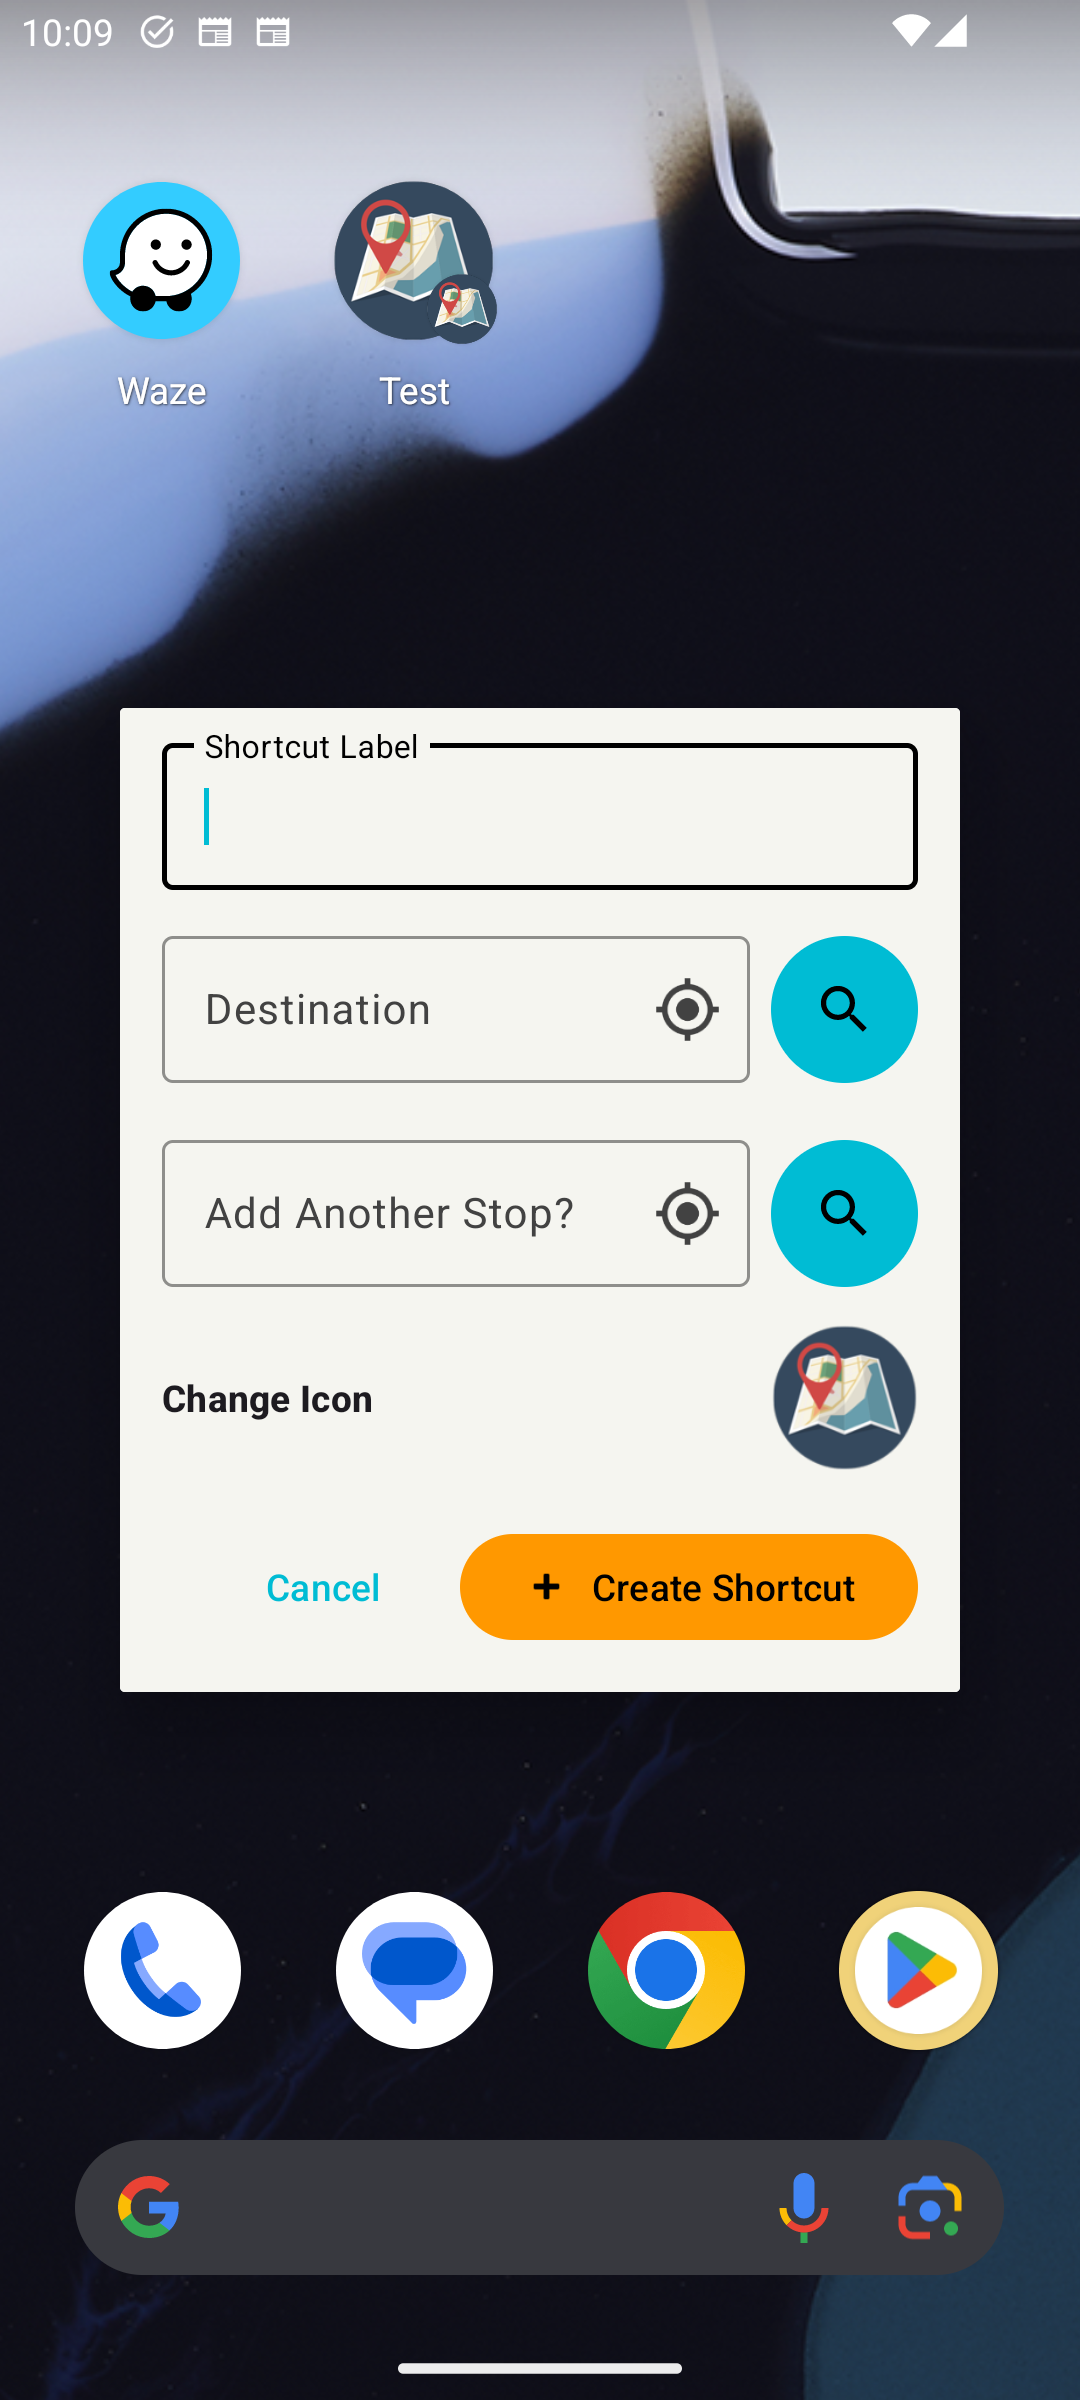
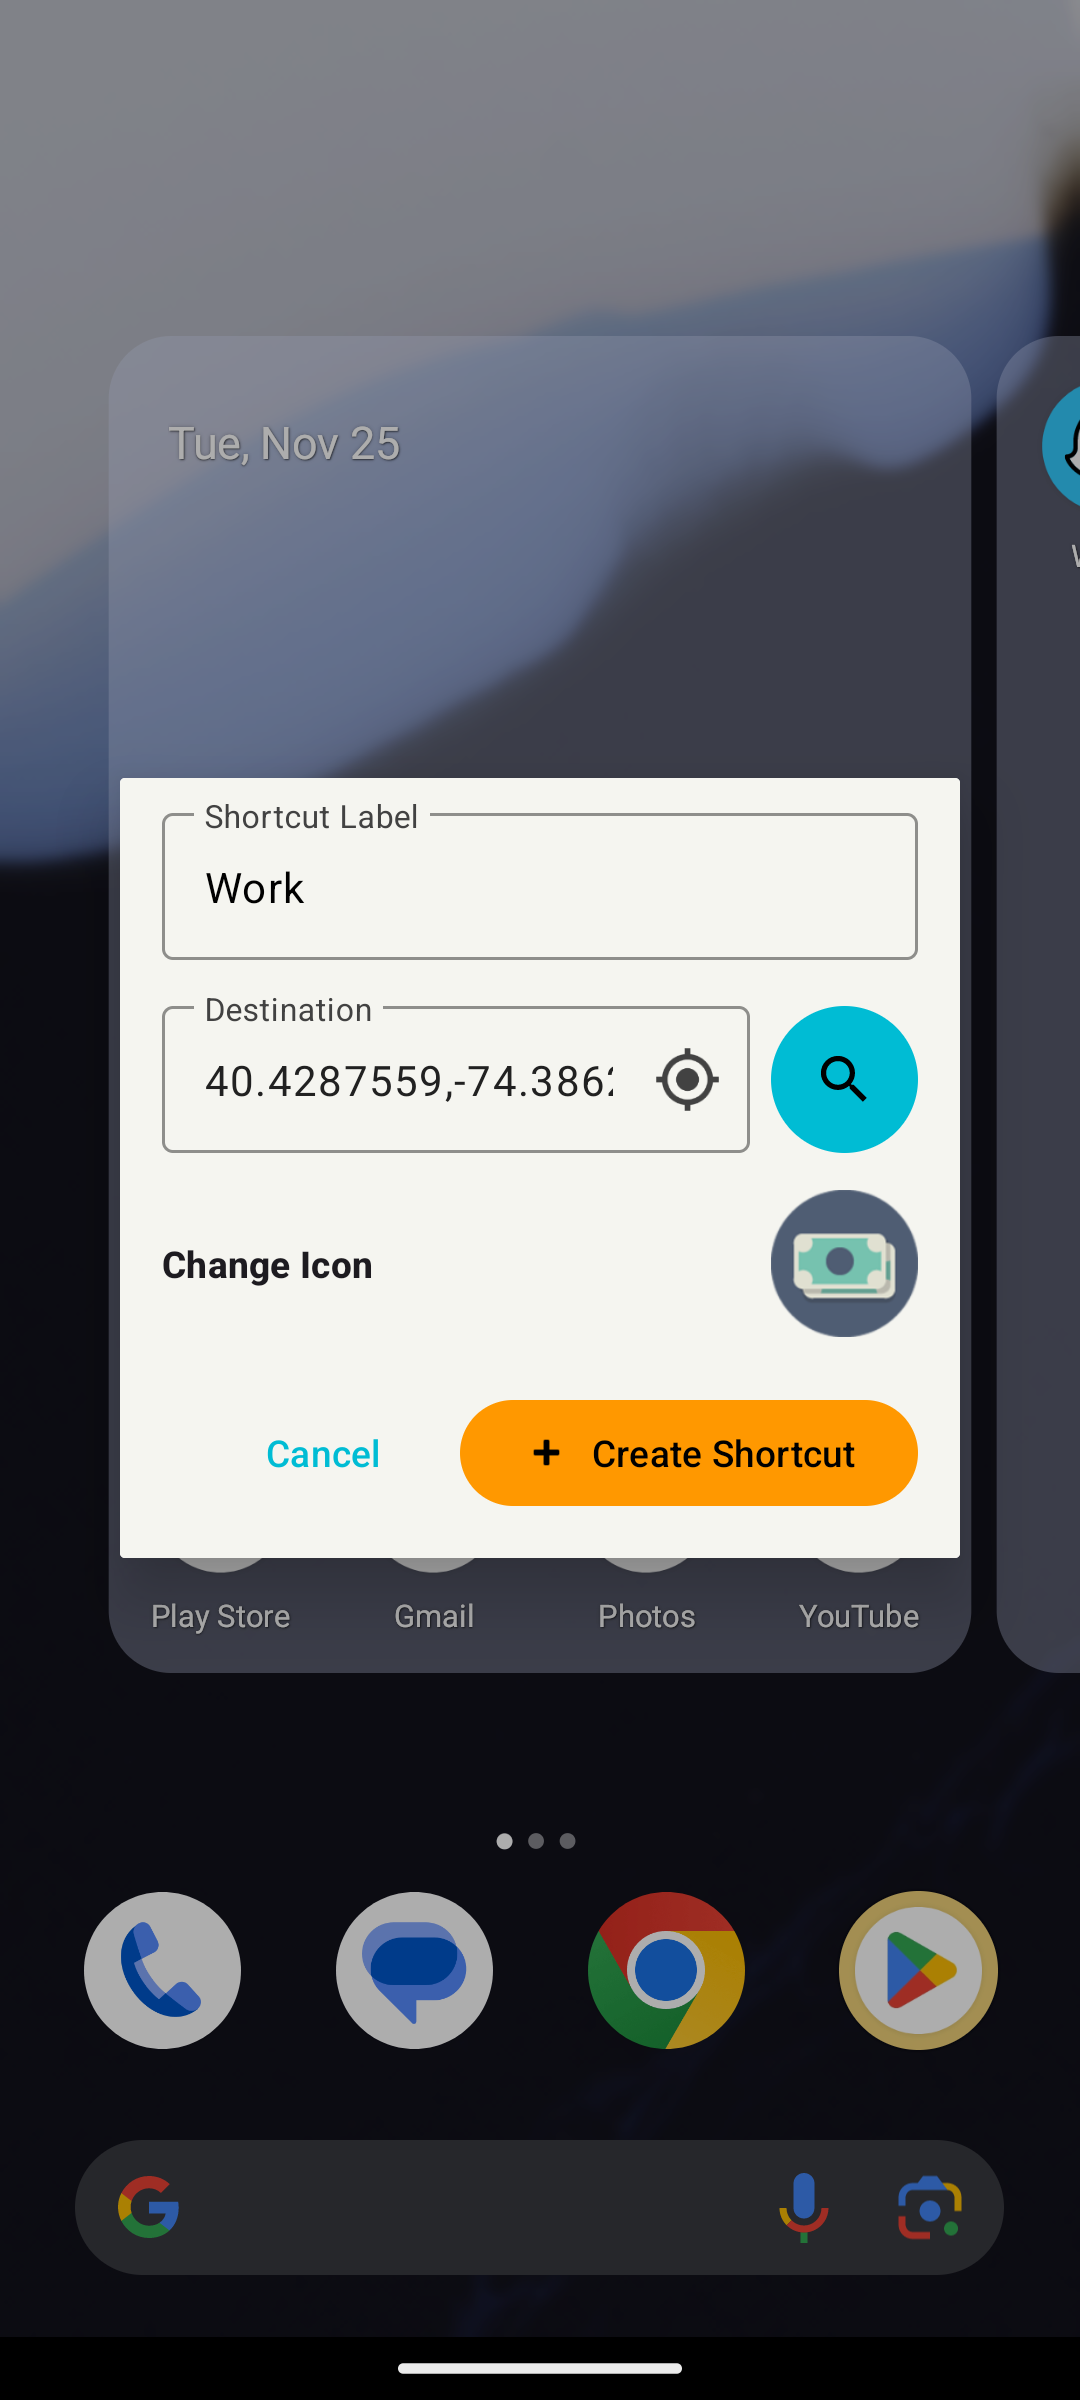
remove second input

diff --git a/help.html b/help.html
@@ -26,7 +26,7 @@
 
         <h3>Using Address Autocomplete</h3>
         <ul>
-            <li>Tap the search icon next to the destination or "Add Another Stop" field</li>
+            <li>Tap the search icon next to the destination field</li>
             <li>Start typing an address in the search dialog</li>
             <li>Select from the suggested addresses that appear</li>
             <li>The app uses Google Places API to provide accurate address suggestions</li>
@@ -50,12 +50,6 @@
             <li>Icons provided by <a href="https://icons8.com" target="_blank" rel="noopener noreferrer">Icons8</a> - <a href="https://intercom.help/icons8-7fb7577e8170/en/articles/4725508-where-do-i-add-the-link" target="_blank" rel="noopener noreferrer">Attribution Guidelines</a></li>
         </ul>
 
-        <h3>Double Shortcuts (Via Points)</h3>
-        <ul>
-            <li>Create shortcuts with multiple destinations</li>
-            <li>Add a second destination as a "via point" or stop</li>
-            <li>The app will navigate to the first destination, then prompt for the second</li>
-        </ul>
 
         <h3>Latitude/Longitude Coordinates</h3>
         <ul>
